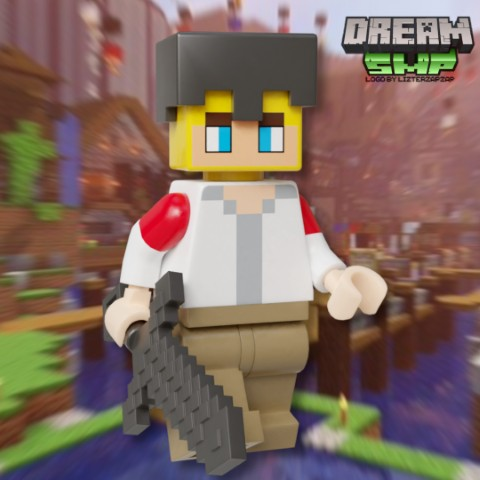
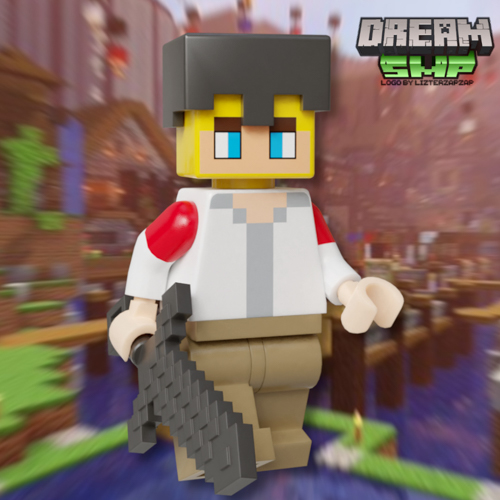
Responsive images tommyinnit-lego-set.html

diff --git a/tommyinnit-lego-set.html b/tommyinnit-lego-set.html
@@ -63,21 +63,20 @@
         </nav>
         <!-- content -->
         <section>
-
-
-
             <div>
                 <h3 class="text-primary mb-4">Minecraft YouTuber LEGO Set</h3>
                 <p>
                     I designed a custom LEGO set inspired by popular Minecraft Let's Play YouTubers. The featured
-                    location
-                    is
-                    “L'Manberg,” a key setting from the Dream SMP server, recreated to reflect scenes from their videos.
-                </p>
+                    location is “L'Manberg,” a key setting from the Dream SMP server, recreated to reflect scenes from
+                    their videos.</p>
 
-                <div class="text-center my-3">
-                    <img src="images/graphic-design/dream-smp/dsmp-set.png" loading="lazy" alt="LEGO L'Manberg Set"
-                        class="image-style">
+                <div class="text-center">
+                    <img src="images/graphic-design/dream-smp/dsmp-set-lg.jpg" srcset="images/graphic-design/dream-smp/dsmp-set-xsm.jpg 300w,
+ images/graphic-design/dream-smp/dsmp-set-xsm.jpg 300w,
+                    images/graphic-design/dream-smp/dsmp-set-sm.jpg 500w,
+ images/graphic-design/dream-smp/dsmp-set-md.jpg 800w,
+ images/graphic-design/dream-smp/dsmp-set-lg.jpg 1080w" sizes="(max-width: 600px) 100vw, (max-width: 992px) 50vw, 33vw"
+                        alt="Dsmp Set" loading="lazy" class="image-style">
                 </div>
                 <div>
                     <img src="images\graphic-design\dream-smp\lego-dsmp-set.gif" alt="Descriptive text"
@@ -85,31 +84,54 @@
                 </div>
             </div>
 
-
-
             <div>
                 <h3 class="text-primary mb-4">Details</h3>
 
 
                 <div class="row justify-content-center">
                     <div class="col-12 col-md-10 col-lg-5">
-                        <img src="images/graphic-design/dream-smp/top-view-smp.png" alt="L'Manberg top view"
+                        <img src="images/graphic-design/dream-smp/top-view-smp-xsm.jpg" srcset="images/graphic-design/dream-smp/top-view-smp-xsm.jpg 300w,
+ images/graphic-design/dream-smp/top-view-smp-xsm.jpg 300w,
+ images/graphic-design/dream-smp/top-view-smp-sm.jpg 500w,
+ images/graphic-design/dream-smp/top-view-smp-md.jpg 800w,
+ images/graphic-design/dream-smp/top-view-smp-lg.jpg 1080w"
+                            sizes="(max-width: 600px) 100vw, (max-width: 992px) 50vw, 33vw" alt="Top View Smp"
                             loading="lazy" class="image-style">
                     </div>
                     <div class="col-12 col-md-10 col-lg-5">
-                        <img src="images/graphic-design/dream-smp/tommyinnit-dics.png" alt="L'Manberg top view"
+                        <img src="images/graphic-design/dream-smp/tommyinnit-dics-xsm.jpg" srcset="images/graphic-design/dream-smp/tommyinnit-dics-xsm.jpg 300w,
+ images/graphic-design/dream-smp/tommyinnit-dics-xsm.jpg 300w,
+ images/graphic-design/dream-smp/tommyinnit-dics-sm.jpg 500w,
+ images/graphic-design/dream-smp/tommyinnit-dics-md.jpg 800w,
+ images/graphic-design/dream-smp/tommyinnit-dics-lg.jpg 1080w"
+                            sizes="(max-width: 600px) 100vw, (max-width: 992px) 50vw, 33vw" alt="Tommyinnit Dics"
                             loading="lazy" class="image-style">
                     </div>
                     <div class="col-12 col-md-10 col-lg-5">
-                        <img src="images/graphic-design/dream-smp/dream-tommyinnit-fight.png" alt="L'Manberg top view"
+                        <img src="images/graphic-design/dream-tommyinnit-fight-xsm.jpg" srcset="images/graphic-design/dream-tommyinnit-fight-xsm.jpg 300w,
+ images/graphic-design/dream-smp\dream-tommyinnit-fight-xsm.jpg 300w,
+ images/graphic-design/dream-smp\dream-tommyinnit-fight-sm.jpg 500w,
+ images/graphic-design/dream-smp\dream-tommyinnit-fight-md.jpg 800w,
+ images/graphic-design/dream-smp\dream-tommyinnit-fight-lg.jpg 1080w"
+                            sizes="(max-width: 600px) 100vw, (max-width: 992px) 50vw, 33vw" alt="Dream Tommyinnit Fight"
                             loading="lazy" class="image-style">
                     </div>
                     <div class="col-12 col-md-10 col-lg-5">
-                        <img src="images/graphic-design/dream-smp/lmanberg-flags.png" alt="L'Manberg top view"
+                        <img src="images/graphic-design/dream-smp/lmanberg-flags-xsm.jpg" srcset="images/graphic-design/dream-smp/lmanberg-flags-xsm.jpg 300w,
+ images/graphic-design/dream-smp/lmanberg-flags-xsm.jpg 300w,
+ images/graphic-design/dream-smp/lmanberg-flags-sm.jpg 500w,
+ images/graphic-design/dream-smp/lmanberg-flags-md.jpg 800w,
+ images/graphic-design/dream-smp/lmanberg-flags-lg.jpg 1080w"
+                            sizes="(max-width: 600px) 100vw, (max-width: 992px) 50vw, 33vw" alt="Lmanberg Flags"
                             loading="lazy" class="image-style">
                     </div>
                     <div class="col-12 col-md-10 col-lg-5">
-                        <img src="images/graphic-design/dream-smp/lmanberg-van.png" alt="L'Manberg top view"
+                        <img src="images/graphic-design/dream-smp/lmanberg-van-xsm.jpg" srcset="images/graphic-design/dream-smp/lmanberg-van-xsm.jpg 300w,
+ images/graphic-design/dream-smp/lmanberg-van-xsm.jpg 300w,
+ images/graphic-design/dream-smp/lmanberg-van-sm.jpg 500w,
+ images/graphic-design/dream-smp/lmanberg-van-md.jpg 800w,
+ images/graphic-design/dream-smp/lmanberg-van-lg.jpg 1080w"
+                            sizes="(max-width: 600px) 100vw, (max-width: 992px) 50vw, 33vw" alt="Lmanberg Van"
                             loading="lazy" class="image-style">
                     </div>
                 </div>
@@ -122,42 +144,60 @@
                 </p>
                 <div class="row justify-content-center">
                     <div class="col-8 col-md-4 col-lg-2">
-                        <img src="images/graphic-design/dream-smp/dsmp-dream.png"
-                            srcset="images/graphic-design/dream-smp/dsmp-dream-sm.png 480w, images/graphic-design/dream-smp/dsmp-dream.png 1080w"
-                            sizes="(max-width: 600px) 100vw, 200px" loading="lazy" alt="Dream Minifigure"
-                            class="image-style">
+                        <img src="images/graphic-design/dream-smp/dsmp-dream-xsm.jpg" srcset="images/graphic-design/dream-smp/dsmp-dream-xsm.jpg 300w,
+ images/graphic-design/dream-smp/dsmp-dream-xsm.jpg 300w,
+ images/graphic-design/dream-smp/dsmp-dream-sm.jpg 500w,
+ images/graphic-design/dream-smp/dsmp-dream-md.jpg 800w,
+ images/graphic-design/dream-smp/dsmp-dream-lg.jpg 1080w"
+                            sizes="(max-width: 600px) 100vw, (max-width: 992px) 50vw, 33vw" alt="Dsmp Dream"
+                            loading="lazy" class="image-style">
 
                     </div>
                     <div class="col-8 col-md-4 col-lg-2">
-                        <img src="images/graphic-design/dream-smp/dsmp-gogy.png"
-                            srcset="images/graphic-design/dream-smp/dsmp-gogy-sm.png 480w, images/graphic-design/dream-smp/dsmp-gogy.png 1080w"
-                            sizes="(max-width: 600px) 100vw, 200px" loading="lazy" alt="GeorgeNotFound Minifigure"
-                            class="image-style">
+                        <img src="images/graphic-design/dream-smp/dsmp-gogy-xsm.jpg" srcset="images/graphic-design/dream-smp/dsmp-gogy-xsm.jpg 300w,
+ images/graphic-design/dream-smp/dsmp-gogy-xsm.jpg 300w,
+ images/graphic-design/dream-smp/dsmp-gogy-sm.jpg 500w,
+ images/graphic-design/dream-smp/dsmp-gogy-md.jpg 800w,
+ images/graphic-design/dream-smp/dsmp-gogy-lg.jpg 1080w"
+                            sizes="(max-width: 600px) 100vw, (max-width: 992px) 50vw, 33vw" alt="Dsmp Gogy"
+                            loading="lazy" class="image-style">
                     </div>
                     <div class="col-8 col-md-4 col-lg-2">
-                        <img src="images/graphic-design/dream-smp/dsmp-ranboo.png"
-                            srcset="images/graphic-design/dream-smp/dsmp-ranboo-sm.png 480w, images/graphic-design/dream-smp/dsmp-ranboo.png 1080w"
-                            sizes="(max-width: 600px) 100vw, 200px" loading="lazy" alt="Ranboo Minifigure"
-                            class="image-style">
+                        <img src="images/graphic-design/dream-smp/dsmp-ranboo-xsm.jpg" srcset="images/graphic-design/dream-smp/dsmp-ranboo-xsm.jpg 300w,
+ images/graphic-design/dream-smp/dsmp-ranboo-xsm.jpg 300w,
+ images/graphic-design/dream-smp/dsmp-ranboo-sm.jpg 500w,
+ images/graphic-design/dream-smp/dsmp-ranboo-md.jpg 800w,
+ images/graphic-design/dream-smp/dsmp-ranboo-lg.jpg 1080w"
+                            sizes="(max-width: 600px) 100vw, (max-width: 992px) 50vw, 33vw" alt="Dsmp Ranboo"
+                            loading="lazy" class="image-style">
 
                     </div>
                     <div class="col-8 col-md-4 col-lg-2">
-                        <img src="images/graphic-design/dream-smp/dsmp-techo.png"
-                            srcset="images/graphic-design/dream-smp/dsmp-techo-sm.png 480w, images/graphic-design/dream-smp/dsmp-techo.png 1080w"
-                            sizes="(max-width: 600px) 100vw, 200px" loading="lazy" alt="Technoblade Minifigure"
-                            class="image-style">
+                        <img src="images/graphic-design/dream-smp/dsmp-techo-xsm.jpg" srcset="images/graphic-design/dream-smp/dsmp-techo-xsm.jpg 300w,
+ images/graphic-design/dream-smp/dsmp-techo-sm.jpg 300w,
+ images/graphic-design/dream-smp/dsmp-techo-sm.jpg 500w,
+ images/graphic-design/dream-smp/dsmp-techo-md.jpg 800w,
+ images/graphic-design/dream-smp/dsmp-techo-lg.jpg 1080w"
+                            sizes="(max-width: 600px) 100vw, (max-width: 992px) 50vw, 33vw" alt="Dsmp Techo"
+                            loading="lazy" class="image-style">
                     </div>
                     <div class="col-8 col-md-4 col-lg-2">
-                        <img src="images/graphic-design/dream-smp/dsmp-tommy.jpg"
-                            srcset="images/graphic-design/dream-smp/dsmp-tommy-sm.jpg 480w, images/graphic-design/dream-smp/dsmp-tommy.jpg 1080w"
-                            sizes="(max-width: 600px) 100vw, 200px" loading="lazy" alt="TommyInnit Minifigure"
-                            class="image-style">
+                        <img src="images/graphic-design/dream-smp/dsmp-tommy-xsm.jpg" srcset="images/graphic-design/dream-smp/dsmp-tommy-xsm.jpg 300w,
+ images/graphic-design/dream-smp/dsmp-tommy-xsm.jpg 300w,
+ images/graphic-design/dream-smp/dsmp-tommy-sm.jpg 500w,
+ images/graphic-design/dream-smp/dsmp-tommy-md.jpg 800w,
+ images/graphic-design/dream-smp/dsmp-tommy-lg.jpg 1080w"
+                            sizes="(max-width: 600px) 100vw, (max-width: 992px) 50vw, 33vw" alt="Dsmp Tommy"
+                            loading="lazy" class="image-style">
                     </div>
                     <div class="col-8 col-md-4 col-lg-2">
-                        <img src="images/graphic-design/dream-smp/dsmp-tubbo.png"
-                            srcset="images/graphic-design/dream-smp/dsmp-tubbo-sm.png 480w, images/graphic-design/dream-smp/dsmp-tubbo.png 1080w"
-                            sizes="(max-width: 600px) 100vw, 200px" loading="lazy" alt="Tubbo Minifigure"
-                            class="image-style">
+                        <img src="images/graphic-design/dream-smp/dsmp-tubbo-xsm.jpg" srcset="images/graphic-design/dream-smp/dsmp-tubbo-xsm.jpg 300w,
+ images/graphic-design/dream-smp/dsmp-tubbo-xsm.jpg 300w,
+ images/graphic-design/dream-smp/dsmp-tubbo-sm.jpg 500w,
+ images/graphic-design/dream-smp/dsmp-tubbo-md.jpg 800w,
+ images/graphic-design/dream-smp/dsmp-tubbo-lg.jpg 1080w"
+                            sizes="(max-width: 600px) 100vw, (max-width: 992px) 50vw, 33vw" alt="Dsmp Tubbo"
+                            loading="lazy" class="image-style">
                     </div>
                 </div>
             </div>
@@ -178,12 +218,9 @@
                         <p lang="en" dir="ltr">aight, this is sick<a
                                 href="https://twitter.com/hashtag/LegoDreamSMP?src=hash&amp;ref_src=twsrc%5Etfw">#LegoDreamSMP</a>
                             oi <a href="https://twitter.com/dreamwastaken?ref_src=twsrc%5Etfw">@dreamwastaken</a> help
-                            me
-                            out
-                            here, this has gotta happen</p>&mdash; TommyInnit (@tommyinnit) <a
+                            me out here, this has gotta happen</p>&mdash; TommyInnit (@tommyinnit) <a
                             href="https://twitter.com/tommyinnit/status/1564996783159345153?ref_src=twsrc%5Etfw">August
-                            31,
-                            2022</a>
+                            31, 2022</a>
                     </blockquote>
                 </div>
             </div>
@@ -192,8 +229,7 @@
                 <h4 class="text-primary my-4">Video Showcase</h4>
                 <div class="ratio ratio-16x9">
                     <iframe src="https://www.youtube.com/embed/WyVWvOJVk-M?si=3CNb34WqOOUsnwe-"
-                        title="Rise to the Top - LEGO Dream SMP Set" allowfullscreen
-                        referrerpolicy="strict-origin-when-cross-origin"
+                        title="LEGO Dream SMP Set" allowfullscreen referrerpolicy="strict-origin-when-cross-origin"
                         allow="accelerometer; autoplay; clipboard-write; encrypted-media; gyroscope; picture-in-picture; web-share">
                     </iframe>
                 </div>

diff --git a/design.html b/design.html
@@ -69,8 +69,11 @@
             <article class="col">
                 <a href="tommyinnit-lego-set.html" class="card-link">
                     <div class="card">
-                        <img src="images/graphic-design/dream-smp/dsmp-set.png" vid loading="lazy"
-                            alt="LEGO L'Manberg Set" class="card-img-top">
+                        <img src="images/graphic-design/dream-smp/dsmp-set-lg.jpg" srcset="images/graphic-design/dream-smp/dsmp-set-xsm.jpg 300w,
+ images/graphic-design/dream-smp/dsmp-set-sm.jpg 500w,
+ images/graphic-design/dream-smp/dsmp-set-md.jpg 800w,
+ images/graphic-design/dream-smp/dsmp-set-lg.jpg 1080w" sizes="(max-width: 600px) 100vw, (max-width: 992px) 50vw, 33vw"
+                            alt="Dsmp Set" loading="lazy" class="image-style">
                         <div class="card-body">
                             <h5 class="card-title">Minecraft Youtuber Custom Lego Set</h5>
                         </div>
@@ -81,8 +84,13 @@
             <article class="col">
                 <a href="sci-fi-poster.html" class="card-link">
                     <div class="card">
-                        <img src="images/graphic-design/out-of-time-poster.png" loading="lazy" class="card-img-top"
-                            alt="Sci-fi Themed Movie Poster Thumbnail">
+                        <img src="images/graphic-design/out-of-time-poster-xsm.jpg" srcset="
+            images/graphic-design/out-of-time-poster-xsm.jpg 300w,
+            images/graphic-design/out-of-time-poster-sm.jpg 500w,
+            images/graphic-design/out-of-time-poster-md.jpg 800w,
+            images/graphic-design/out-of-time-poster-lg.jpg 1080w
+        " sizes="(max-width: 600px) 100vw, (max-width: 992px) 50vw, 33vw" alt="Sci-fi Themed Movie Poster Thumbnail"
+                            loading="lazy" class="card-img-top">
                         <div class="card-body">
                             <h5 class="card-title">Sci-fi Themed Movie Poster</h5>
                         </div>

diff --git a/sci-fi-poster.html b/sci-fi-poster.html
@@ -69,8 +69,13 @@
             <div class="row g-4 justify-content-center align-items-center">
                 <!-- Image Column -->
                 <div class="col-9 col-md-6 col-lg-5">
-                    <img src="images/graphic-design/out-of-time-poster.png" alt="Out of Time Sci-Fi Movie Poster"
-                        class="image-style">
+                    <img src="images/graphic-design/out-of-time-poster-xsm.jpg" srcset="
+            images/graphic-design/out-of-time-poster-xsm.jpg 300w,
+            images/graphic-design/out-of-time-poster-sm.jpg 500w,
+            images/graphic-design/out-of-time-poster-md.jpg 800w,
+            images/graphic-design/out-of-time-poster-lg.jpg 1080w
+        " sizes="(max-width: 600px) 100vw, (max-width: 992px) 50vw, 33vw" alt="Sci-fi Themed Movie Poster Thumbnail"
+                        loading="lazy" class="image-style">
                 </div>
 
                 <!-- Description Column -->

diff --git a/prompts/automation.md b/prompts/automation.md
@@ -29,4 +29,4 @@ sizes="(max-width: 600px) 100vw, (max-width: 992px) 50vw, 33vw"
  alt="Description of the image"
  loading="lazy" class="image-style">
 
-Provide one html file
+Provide one html file downloadable
